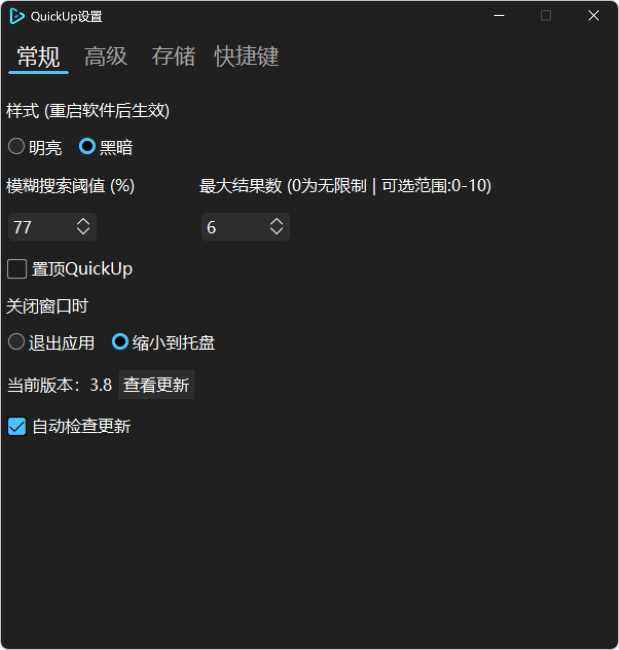
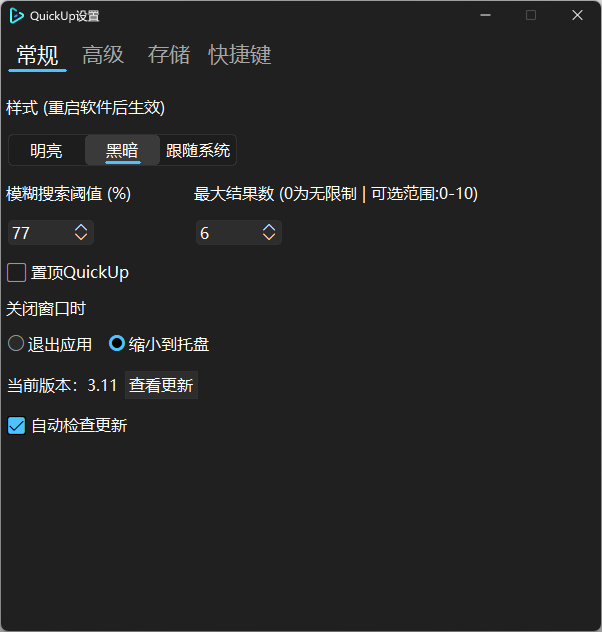
支持跟随系统样式主题

diff --git a/src/config.py b/src/config.py
@@ -5,10 +5,12 @@ QuickUp configuration file.
 import os
 import json
 
+from cppextend.QUmodule import detect_app_theme
+
 # 默认设置
 settings = {
     'general': {
-        'theme': 'light',# light dark
+        'theme': 'light',# light dark system
         'patternRank': 75,
         'maxSearchCount': 5,
         'topMost': False,
@@ -24,11 +26,13 @@ settings = {
     'storage': {}
 }
 
+theme_original = 'light'
 
 def init_config():
     """
     初始化配置文件
     """
+    global theme_original
     if not os.path.exists(os.path.join(os.path.expanduser('~'), '.QuickUp')):
         os.makedirs(os.path.join(os.path.expanduser('~'), '.QuickUp'))
         with open(os.path.join(os.path.expanduser('~'), '.QuickUp', 'config-general.json'), 'w', encoding='utf-8') as f:
@@ -40,6 +44,9 @@ def init_config():
     else:
         with open(os.path.join(os.path.expanduser('~'), '.QuickUp', 'config-general.json'), 'r', encoding='utf-8') as f:
             settings['general'].update(json.load(f))
+            theme_original = settings['general']['theme']
+            if theme_original == 'system':
+                settings['general']['theme'] = detect_app_theme()
         with open(os.path.join(os.path.expanduser('~'), '.QuickUp', 'config-advanced.json'), 'r', encoding='utf-8') as f:
             settings['advanced'].update(json.load(f))
         with open(os.path.join(os.path.expanduser('~'), '.QuickUp', 'config-storage.json'), 'r', encoding='utf-8') as f:
@@ -50,7 +57,10 @@ def save_config():
     保存配置文件
     """
     with open(os.path.join(os.path.expanduser('~'), '.QuickUp', 'config-general.json'), 'w', encoding='utf-8') as f:
+        settings['general']['theme'] = theme_original
         json.dump(settings['general'], f, indent=4)
+        if theme_original == 'system':
+            settings['general']['theme'] = detect_app_theme()
     with open(os.path.join(os.path.expanduser('~'), '.QuickUp', 'config-advanced.json'), 'w', encoding='utf-8') as f:
         json.dump(settings['advanced'], f, indent=4)
     with open(os.path.join(os.path.expanduser('~'), '.QuickUp', 'config-storage.json'), 'w', encoding='utf-8') as f:

diff --git a/src/cppextend/QUmodule.cpp b/src/cppextend/QUmodule.cpp
@@ -185,6 +185,15 @@ static PyObject* stop_hotkey(PyObject* self, PyObject* args) {
     return Py_None;
 }
 
+static PyObject* detect_app_theme(PyObject* self, PyObject* args) {
+    int result = detect_theme();
+    if (result == 0) {
+        return PyUnicode_FromString("dark");
+    } else {
+        return PyUnicode_FromString("light");
+    }
+}
+
 
 static PyMethodDef QUModuleMethods[] = {
     {"quick_fuzz", (PyCFunction)quick_fuzz, METH_VARARGS, PyDoc_STR("quick_fuzz(list:list, name:str, acc:int, num:int) -> list")},
@@ -199,6 +208,7 @@ static PyMethodDef QUModuleMethods[] = {
     {"is_valid_windows_filename", (PyCFunction)is_valid_windows_filename, METH_VARARGS, PyDoc_STR("is_valid_windows_filename(filename:str) -> bool")},
     {"start_hotkey", (PyCFunction)start_hotkey, METH_VARARGS, PyDoc_STR("start_hotkey(fsmodifier:int, fskey:int, callback:function) -> None")},
     {"stop_hotkey", (PyCFunction)stop_hotkey, METH_VARARGS, PyDoc_STR("stop_hotkey() -> None")},
+    {"detect_app_theme", (PyCFunction)detect_app_theme, METH_VARARGS, PyDoc_STR("detect_app_theme() -> str")},
     {NULL, NULL, 0, NULL}
 };
 

diff --git a/src/ui/setting.py b/src/ui/setting.py
@@ -46,11 +46,13 @@ def init_general():
         gUIxml.loadxml(f.read().replace('%VERSION%', datas.version))
     
     themeradio = gUIxml.tags["themeradio"][-2]
-    nowtheme = config.settings['general']['theme']
+    nowtheme = config.theme_original
     if nowtheme == "light":
         themeradio.select(0)
-    else:
+    elif nowtheme == "dark":
         themeradio.select(1)
+    else:
+        themeradio.select(2)
     
     blurspin = gUIxml.tags["blurspin"][0]
     blurspin.delete(0, 'end')
@@ -153,9 +155,11 @@ def sel_theme(theme):
     # 切换主题
     if theme == "明亮":
         theme = "light"
-    else:
+    elif theme == "黑暗":
         theme = "dark"
-    config.settings['general']['theme'] = theme
+    else:
+        theme = "system"
+    config.theme_original = theme
     config.save_config()
 
 def sel_blur(blur):

diff --git a/src/cppextend/ui.h b/src/cppextend/ui.h
@@ -161,3 +161,19 @@ private:
         return DefSubclassProc(hWnd, message, wParam, lParam);
     }
 };
+
+int detect_theme() {
+    HKEY hKey;
+    DWORD value = 1; // 默认明亮
+    DWORD size = sizeof(DWORD);
+    LONG result = RegOpenKeyExW(HKEY_CURRENT_USER,
+        L"Software\\Microsoft\\Windows\\CurrentVersion\\Themes\\Personalize",
+        0, KEY_READ, &hKey);
+    if (result == ERROR_SUCCESS) {
+        RegQueryValueExW(hKey, L"AppsUseLightTheme", nullptr, nullptr, (LPBYTE)&value, &size);
+        RegCloseKey(hKey);
+    } else {
+        return 1;
+    }
+    return value;
+}

diff --git a/docs/_pages/document-en.md b/docs/_pages/document-en.md
@@ -118,7 +118,7 @@ To make QuickUp work as you think, please restart all workspaces when you change
 
 ### Theme
 
-In QuickUp, you can set the appearance of it within light-mode or dark-mode. The last change will work after restarting QuickUp.
+In QuickUp, you can set the appearance of it within light-mode or dark-mode, or follow the system theme. The last change will work after restarting QuickUp.
 
 ### Searching threshold
 

diff --git a/docs/_posts/2025-9-5-quickup-ubuntu.md b/docs/_posts/2025-9-5-quickup-ubuntu.md
@@ -1,0 +1,15 @@
+---
+layout: post
+title QuickUp for Ubuntu
+published: True
+---
+
+# QuickUp的Ubuntu版本
+
+[QuickUp-Linux](https://github.com/Smart-Space/QuickUp-Linux)是一个实验性项目，在wsl的Ubuntu-24.04上测试。
+
+---
+
+# QuickUp's Ubuntu version
+
+[QuickUp-Linux](https://github.com/Smart-Space/QuickUp-Linux) is an experimental project being tested on Ubuntu 24.04 in wsl.

diff --git a/docs/_pages/document.md b/docs/_pages/document.md
@@ -117,7 +117,7 @@ permalink: /document/
 
 ### 样式
 
-设置明亮或黑暗样式。
+设置明亮或黑暗样式，或者跟随系统。
 
 ### 搜索阈值
 
